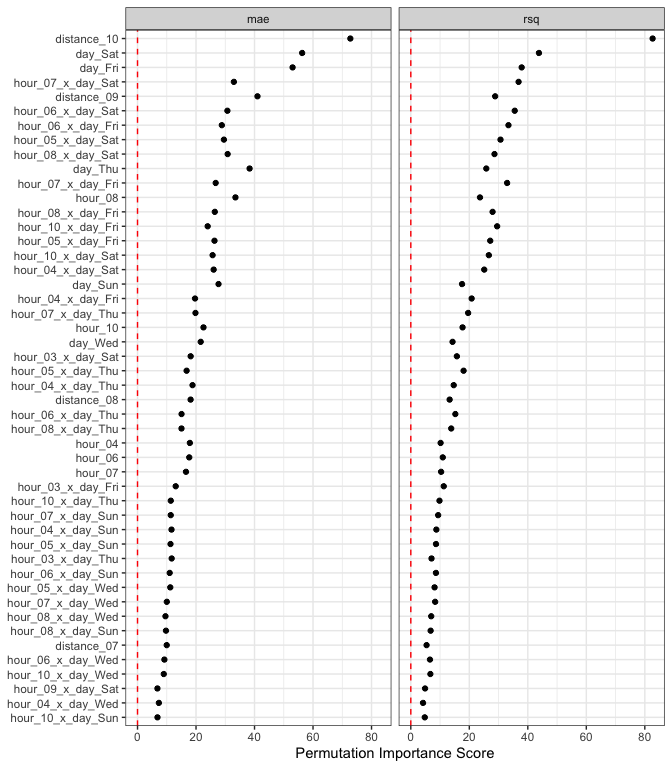
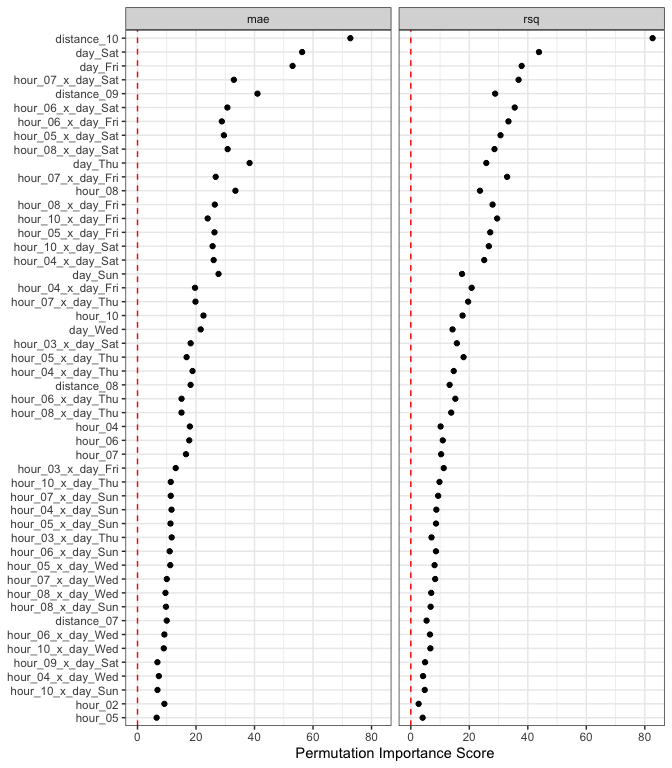
update readme

Changed region(s): [[0.0, 0.0625, 0.5625, 0.9688], [0.5938, 0.3438, 0.9688, 0.9375], [0.5938, 0.0938, 0.9688, 0.3438]]

diff --git a/README.md b/README.md
@@ -6,7 +6,16 @@
 <!-- badges: start -->
 <!-- badges: end -->
 
-The goal of important is to …
+The important package has a succinct interface for obtaining estimates
+of predictor importance with tidymodels objects. A few of the main
+features:
+
+- Any performance metrics from the yardstick package can be used.
+- Importance can be calculated for either the original columns or at the
+  level of any derived model terms created during feature engineering.
+- The computations that loop across permutation iterations and
+  predictors columns are easily parallelized.
+- The results are returned in a tidy format.
 
 ## Installation
 
@@ -14,11 +23,33 @@ You can install the development version of important from
 [GitHub](https://github.com/) with:
 
 ``` r
+# Not yet!
 # install.packages("devtools")
 devtools::install_github("topepo/important")
 ```
 
+## Do we really need another package that computes variable importances?
+
+The main reason for making important is censored regression models.
+tidymodels released tools for fitting and qualifying models that have
+censored outcomes. This included some dynamic performance metrics that
+were evaluated at different time points. This was a substantial change
+for us, and it would have been even more challenging to add to other
+packages.
+
 ## Example
+
+Let’s look at an analysis that models [food delivery
+times](https://aml4td.org/chapters/whole-game.html#sec-delivery-times).
+The outcome is the time between an order being placed and the delivery
+(all data are complete - there is no censoring). We model this in terms
+of the order day/time, the distance to the restaurant, and which items
+are contained in the order. Exploratory data analysis shows several
+nonlinear trends in the data and some interactions between these trends.
+
+We’ll load the tidymodels and important packages to get started.
+
+The data are split into training, validation, and testing sets.
 
 ``` r
 data(deliveries, package = "modeldata")
@@ -27,6 +58,11 @@ set.seed(991)
 delivery_split <- initial_validation_split(deliveries, prop = c(0.6, 0.2), strata = time_to_delivery)
 delivery_train <- training(delivery_split)
 ```
+
+The model uses a recipe with spline terms for the hour and distances.
+The nonlinear trend over the time of order changes on the day, so we
+added interactions between these two sets of terms. Finally, a simple
+linear regression model is used for estimation:
 
 ``` r
 delivery_rec <- 
@@ -39,6 +75,10 @@ delivery_rec <-
 lm_wflow <- workflow(delivery_rec, linear_reg())
 lm_fit <- fit(lm_wflow, delivery_train)
 ```
+
+First, let’s capture the effect of the individual model terms. These
+terms are from the derived features in the models, such as dummy
+variables, spline terms, interaction columns, etc.
 
 ``` r
 set.seed(382)
@@ -67,36 +107,70 @@ lm_deriv_imp
 #> # ℹ 216 more rows
 ```
 
+Using mean absolute error as the metric of interest, the top 5 features
+are:
+
 ``` r
-autoplot(lm_deriv_imp, top = 100)
+lm_deriv_imp %>% 
+    filter(.metric == "mae") %>% 
+    slice_max(importance, n = 5)
+#> # A tibble: 5 × 6
+#>   .metric predictor       n  mean std_err importance
+#>   <chr>   <chr>       <int> <dbl>   <dbl>      <dbl>
+#> 1 mae     distance_10    50 2.24   0.0308       72.8
+#> 2 mae     day_Sat        50 1.09   0.0194       56.3
+#> 3 mae     day_Fri        50 0.904  0.0171       53.0
+#> 4 mae     distance_09    50 0.783  0.0191       41.0
+#> 5 mae     day_Thu        50 0.633  0.0165       38.3
+```
+
+Two notes:
+
+- The importance scores are the ratio of the mean change in performance
+  and the associated standard error. The mean value is always increasing
+  with importance, no matter which direction is preferred for the
+  specific metric(s).
+
+- We can run these in parallel by loading the future package and
+  specifying a parallel backend using the `plan()` function.
+
+There is a plot method that can help visualize the results:
+
+``` r
+autoplot(lm_deriv_imp, top = 50)
 ```
 
 <img src="man/figures/README-derived-plot-1.png" width="100%" />
 
+Since there are spline terms and interactions for the hour column, we
+might not care about the importance of a term such as `hour_06` (the
+sixth spline feature). In aggregate, we might want to know the effect of
+the original predictor columns. The `type` option is used for this
+purpose:
+
 ``` r
 set.seed(382)
 lm_orig_imp <- 
-  importance_perm(
-    lm_fit,
-    data = delivery_train,
-    metrics = metric_set(mae, rsq),
-    times = 50
-  )
-lm_orig_imp
-#> # A tibble: 60 × 6
-#>    .metric predictor     n   mean std_err importance
-#>    <chr>   <chr>     <int>  <dbl>   <dbl>      <dbl>
-#>  1 rsq     hour         50 0.780  0.00423     184.  
-#>  2 mae     hour         50 4.07   0.0332      123.  
-#>  3 mae     day          50 1.91   0.0250       76.4 
-#>  4 mae     distance     50 1.49   0.0209       71.2 
-#>  5 rsq     distance     50 0.289  0.00450      64.3 
-#>  6 rsq     day          50 0.325  0.00516      63.0 
-#>  7 mae     item_24      50 0.0587 0.0149        3.93
-#>  8 mae     item_03      50 0.0446 0.0146        3.06
-#>  9 mae     item_10      50 0.0457 0.0152        3.00
-#> 10 mae     item_02      50 0.0398 0.0146        2.72
-#> # ℹ 50 more rows
+    importance_perm(
+        lm_fit,
+        data = delivery_train,
+        metrics = metric_set(mae, rsq),
+        times = 50,
+        type = "original"
+    )
+
+# Top five: 
+lm_orig_imp %>% 
+    filter(.metric == "mae") %>% 
+    slice_max(importance, n = 5)
+#> # A tibble: 5 × 6
+#>   .metric predictor     n   mean std_err importance
+#>   <chr>   <chr>     <int>  <dbl>   <dbl>      <dbl>
+#> 1 mae     hour         50 4.07    0.0332     123.  
+#> 2 mae     day          50 1.91    0.0250      76.4 
+#> 3 mae     distance     50 1.49    0.0209      71.2 
+#> 4 mae     item_24      50 0.0587  0.0149       3.93
+#> 5 mae     item_03      50 0.0446  0.0146       3.06
 ```
 
 ``` r
